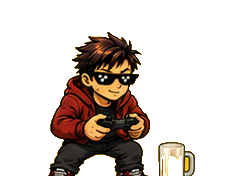
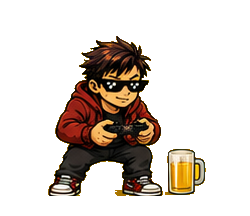
Stabilize man gamepad timer frames

Changed region(s): [[0.1736, 0.1531, 0.8388, 0.9184]]

diff --git a/tests/test_word_jump_overlay.py b/tests/test_word_jump_overlay.py
@@ -363,6 +363,27 @@ def test_man_sprite_keeps_hands_after_background_cleanup():
         assert skin_pixels > 180
 
 
+def test_man_gamepad_timer_frames_keep_feet_and_mug_visible():
+    frames_dir = Path("assets/mascot/man_character_frames")
+    for frame_name in ("12.png", "14.png", "15.png", "17.png"):
+        frame = Image.open(frames_dir / frame_name).convert("RGBA")
+        shoe_pixels = 0
+        beer_pixels = 0
+        for y in range(int(frame.height * 0.68), frame.height):
+            for x in range(0, int(frame.width * 0.70)):
+                red, green, blue, alpha = frame.getpixel((x, y))
+                if alpha > 80 and red > 150 and green > 140 and blue > 120:
+                    shoe_pixels += 1
+        for y in range(frame.height):
+            for x in range(int(frame.width * 0.58), frame.width):
+                red, green, blue, alpha = frame.getpixel((x, y))
+                if alpha > 80 and red > 180 and 100 < green < 235 and blue < 110:
+                    beer_pixels += 1
+
+        assert shoe_pixels > 300
+        assert beer_pixels > 180
+
+
 def test_man_sprite_has_no_yellow_sheet_background_between_legs():
     frames_dir = Path("assets/mascot/man_character_frames")
     for frame_name in ("09.png", "18.png", "19.png", "20.png", "21.png", "22.png", "23.png"):
